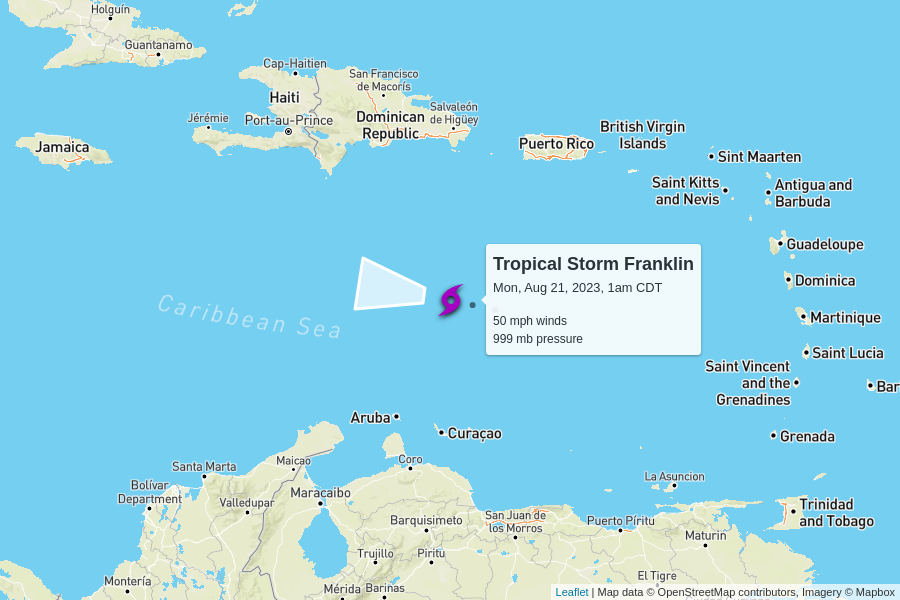
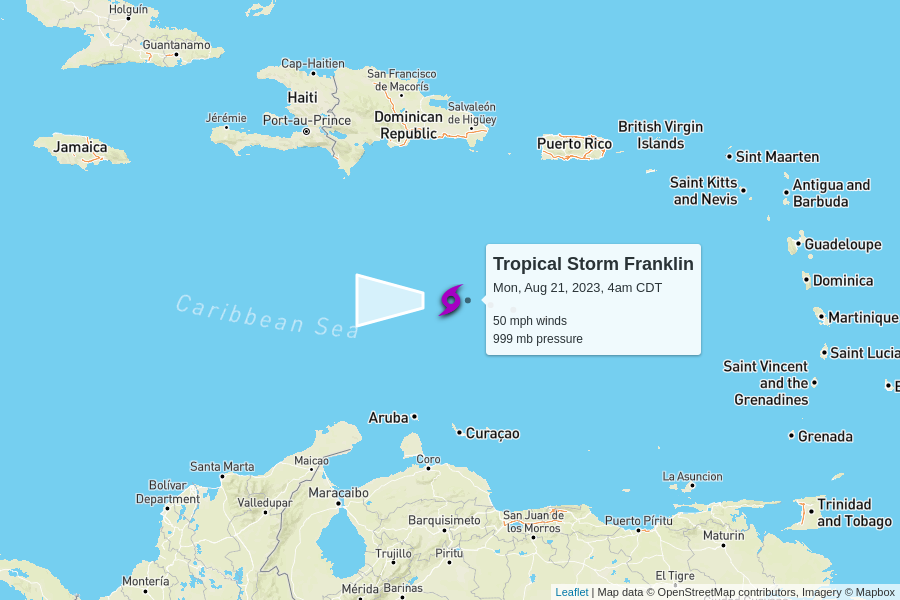
automatic update

diff --git a/docs/index.html b/docs/index.html
@@ -99,52 +99,8 @@
       <tr>
         <td colspan="6" class="storm category-0" >
           <h2>
-            Tropical Storm Franklin
-            <p class="updated">last updated <span data-time>2023-08-21T06:00:00.000Z</span></p>
-          </h2>
-        </td>
-      </tr>
-      
-      <tr>
-        <th class="spacer"></th>
-        <th>wind speed</th>
-        <th>central pressure</th>
-        <th>movement</th>
-        <th>data (CSV)</th>
-        <th>National Hurricane Center</th>
-      </tr>
-      <tr>
-        <td class="spacer"></td>
-        <td>50 mph</td>
-        <td>999 mb</td>
-        <td>
-          12 mph to the west
-          <br/>
-          <span style="display: inline-block; font-size: 1.5em; transform: rotate(280deg);">↑</span>
-        </td>
-        <td><a href="https://raw.githubusercontent.com/mgwalker/atlantic-hurricanes/main/data/csv/AL082023.csv">AL082023.csv</a></td>
-        <td><a href="https://www.nhc.noaa.gov/archive/2023/FRANKLIN.shtml?">NHC advisories</a></td>
-      </tr>
-      <tr id="storm_AL082023" >
-        <td class="spacer">
-        <td colspan="5">
-          <figure>
-            <img src="AL082023.png">
-            <figcaption>
-              Map data &copy; <a href="https://www.openstreetmap.org/copyright">OpenStreetMap</a> contributors,
-              Imagery &copy; <a href="https://www.mapbox.com/">Mapbox</a> |
-              <a href="https://www.mapbox.com/map-feedback/" target="_blank">Improve this map</a>
-            </figcaption>
-          </figure>
-        </td>
-      </tr>
-      
-
-      <tr>
-        <td colspan="6" class="storm category-0" >
-          <h2>
             Tropical Storm Gert
-            <p class="updated">last updated <span data-time>2023-08-21T04:00:00.000Z</span></p>
+            <p class="updated">last updated <span data-time>2023-08-21T09:00:00.000Z</span></p>
           </h2>
         </td>
       </tr>
@@ -162,9 +118,9 @@
         <td>40 mph</td>
         <td>1006 mb</td>
         <td>
-          9 mph to the west-northwest
+          9 mph to the west
           <br/>
-          <span style="display: inline-block; font-size: 1.5em; transform: rotate(285deg);">↑</span>
+          <span style="display: inline-block; font-size: 1.5em; transform: rotate(280deg);">↑</span>
         </td>
         <td><a href="https://raw.githubusercontent.com/mgwalker/atlantic-hurricanes/main/data/csv/AL062023.csv">AL062023.csv</a></td>
         <td><a href="https://www.nhc.noaa.gov/archive/2023/GERT.shtml?">NHC advisories</a></td>
@@ -188,7 +144,7 @@
         <td colspan="6" class="storm category-0" >
           <h2>
             Tropical Storm Emily
-            <p class="updated">last updated <span data-time>2023-08-21T03:00:00.000Z</span></p>
+            <p class="updated">last updated <span data-time>2023-08-21T09:00:00.000Z</span></p>
           </h2>
         </td>
       </tr>
@@ -203,12 +159,12 @@
       </tr>
       <tr>
         <td class="spacer"></td>
-        <td>45 mph</td>
-        <td>1001 mb</td>
+        <td>40 mph</td>
+        <td>1004 mb</td>
         <td>
-          9 mph to the west-northwest
+          12 mph to the west-northwest
           <br/>
-          <span style="display: inline-block; font-size: 1.5em; transform: rotate(300deg);">↑</span>
+          <span style="display: inline-block; font-size: 1.5em; transform: rotate(290deg);">↑</span>
         </td>
         <td><a href="https://raw.githubusercontent.com/mgwalker/atlantic-hurricanes/main/data/csv/AL072023.csv">AL072023.csv</a></td>
         <td><a href="https://www.nhc.noaa.gov/archive/2023/EMILY.shtml?">NHC advisories</a></td>
@@ -218,6 +174,50 @@
         <td colspan="5">
           <figure>
             <img src="AL072023.png">
+            <figcaption>
+              Map data &copy; <a href="https://www.openstreetmap.org/copyright">OpenStreetMap</a> contributors,
+              Imagery &copy; <a href="https://www.mapbox.com/">Mapbox</a> |
+              <a href="https://www.mapbox.com/map-feedback/" target="_blank">Improve this map</a>
+            </figcaption>
+          </figure>
+        </td>
+      </tr>
+      
+
+      <tr>
+        <td colspan="6" class="storm category-0" >
+          <h2>
+            Tropical Storm Franklin
+            <p class="updated">last updated <span data-time>2023-08-21T09:00:00.000Z</span></p>
+          </h2>
+        </td>
+      </tr>
+      
+      <tr>
+        <th class="spacer"></th>
+        <th>wind speed</th>
+        <th>central pressure</th>
+        <th>movement</th>
+        <th>data (CSV)</th>
+        <th>National Hurricane Center</th>
+      </tr>
+      <tr>
+        <td class="spacer"></td>
+        <td>50 mph</td>
+        <td>999 mb</td>
+        <td>
+          12 mph to the west
+          <br/>
+          <span style="display: inline-block; font-size: 1.5em; transform: rotate(270deg);">↑</span>
+        </td>
+        <td><a href="https://raw.githubusercontent.com/mgwalker/atlantic-hurricanes/main/data/csv/AL082023.csv">AL082023.csv</a></td>
+        <td><a href="https://www.nhc.noaa.gov/archive/2023/FRANKLIN.shtml?">NHC advisories</a></td>
+      </tr>
+      <tr id="storm_AL082023" >
+        <td class="spacer">
+        <td colspan="5">
+          <figure>
+            <img src="AL082023.png">
             <figcaption>
               Map data &copy; <a href="https://www.openstreetmap.org/copyright">OpenStreetMap</a> contributors,
               Imagery &copy; <a href="https://www.mapbox.com/">Mapbox</a> |
